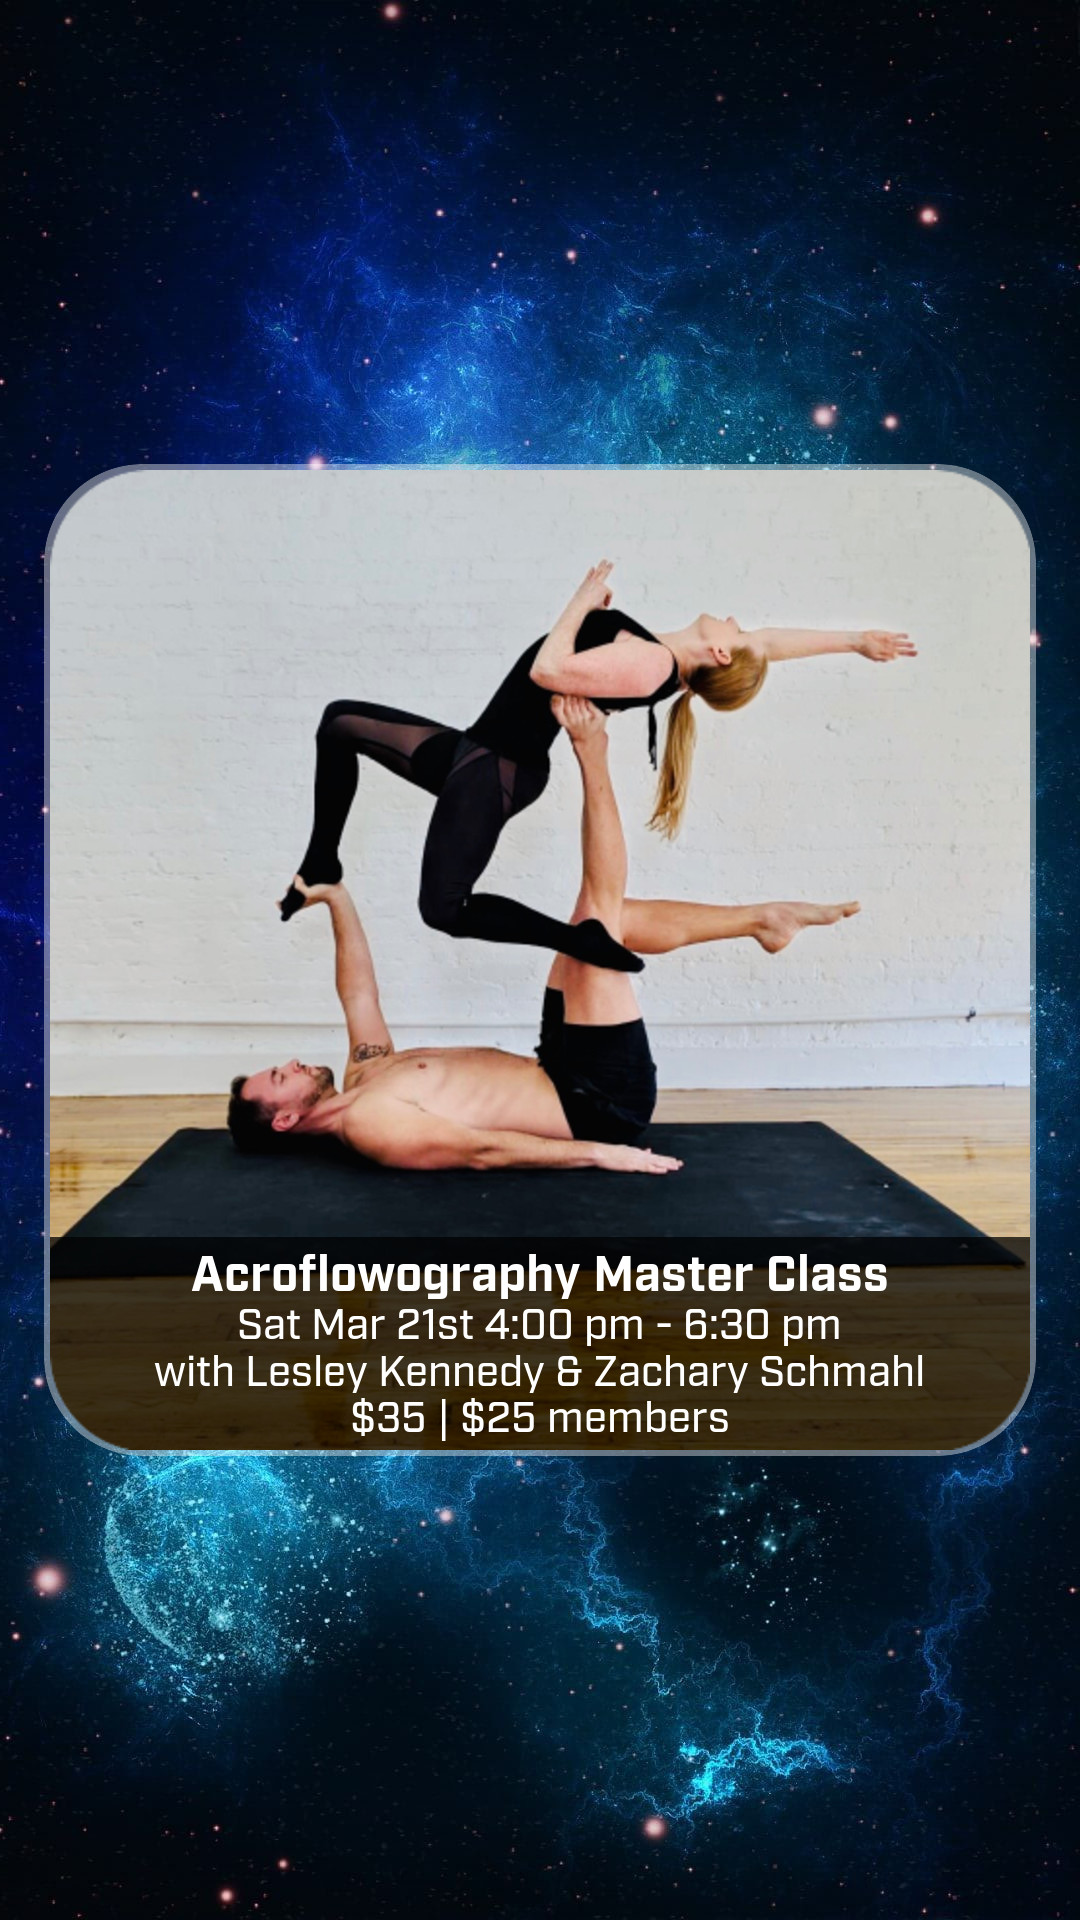
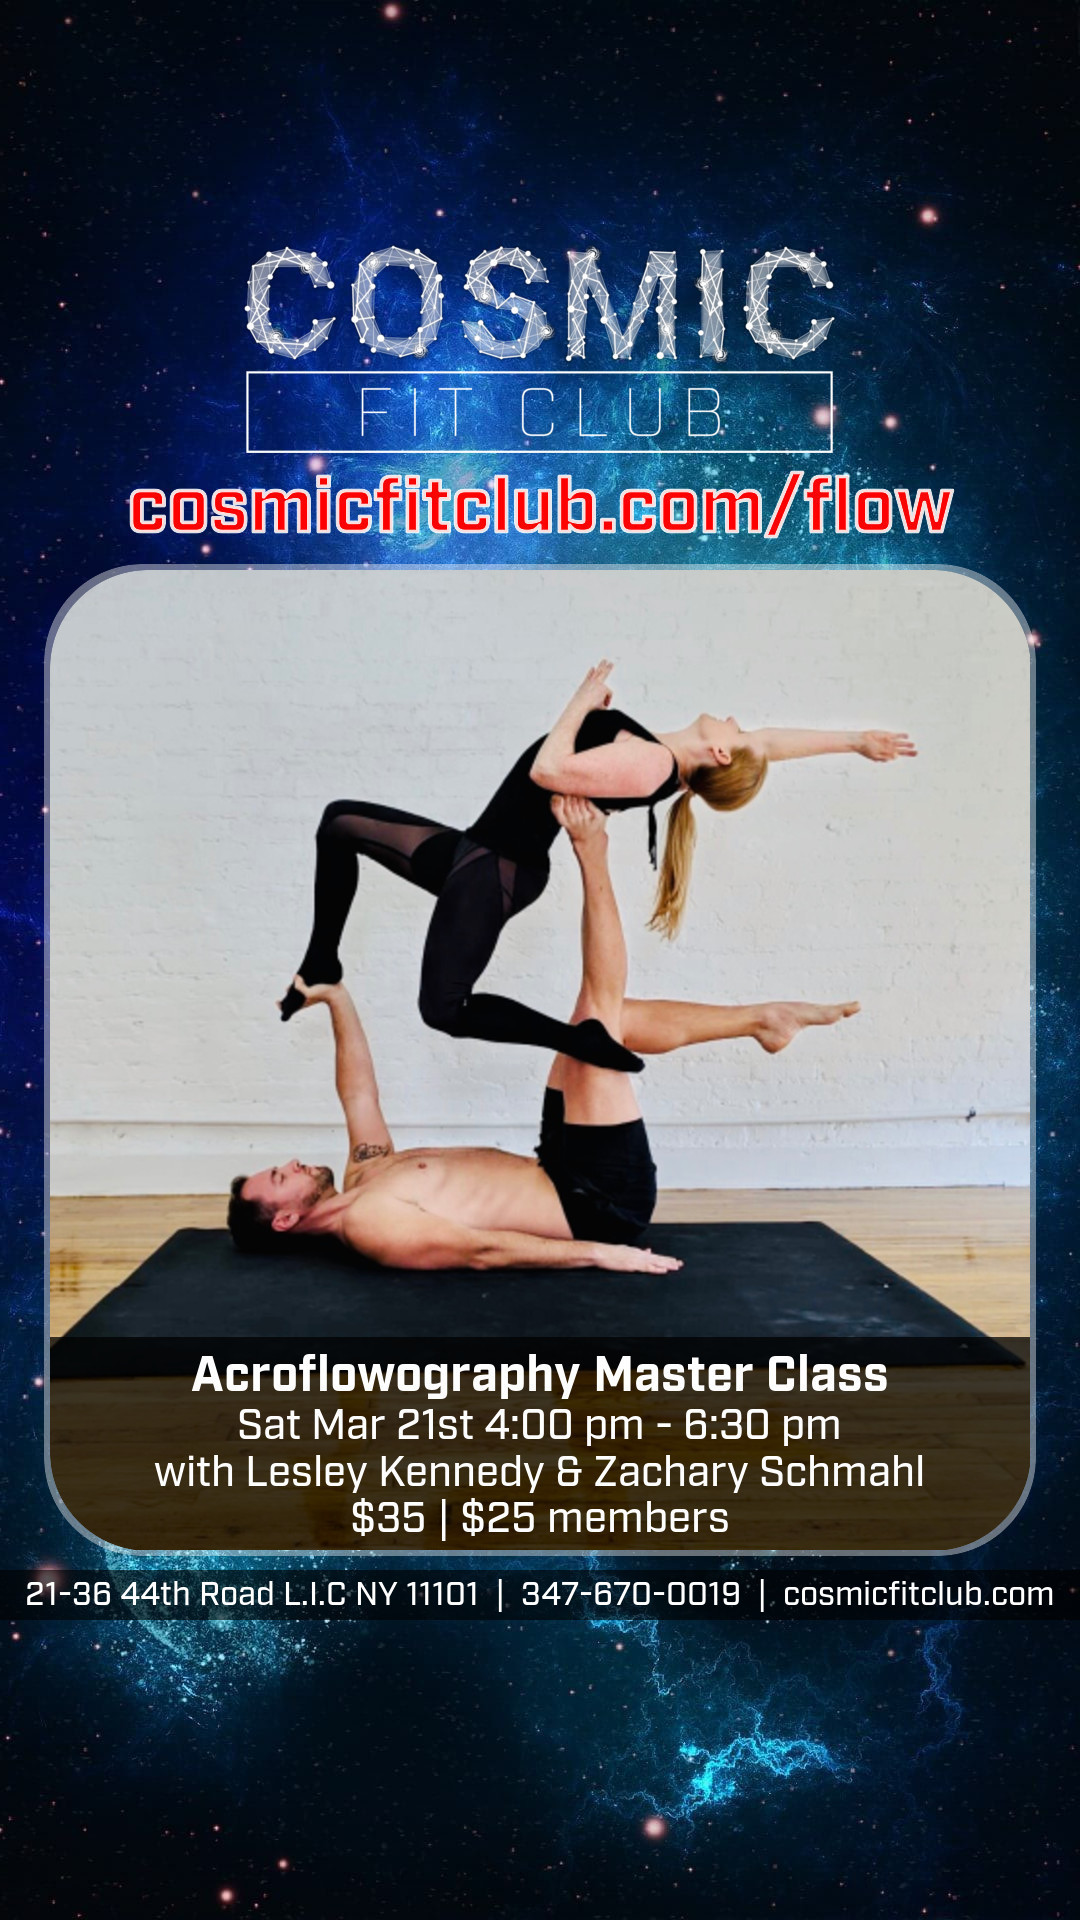
orphan tickets

diff --git a/printable/lib/MiniMagickExtensions::Image::Text.rb b/printable/lib/MiniMagickExtensions::Image::Text.rb
@@ -59,16 +59,17 @@ module MiniMagickExtensions
         end
       end
 
-      def draw_footer(pointsize=nil, offset=0)
-        pointsize ||= self.dimensions[0] * 0.0073
-        line_height = pointsize * 300 / 72
+      def draw_footer(opts)
+        opts[:offset] ||= 0
+        opts[:ptsize] ||= self.dimensions[0] * 0.0073
+        line_height = opts[:ptsize] * 300 / 72
         self.draw_box({
           :x_offset => 0,
-          :y_offset => height-(1.5*line_height)-offset,
-          :width    => width, 
-          :height   => height
+          :y_offset => self.height-(1.5*line_height)-opts[:offset],
+          :width    => self.width, 
+          :height   => opts[:nobottom] ? 1.5*line_height : self.height
         })
-        self.draw_text("21-36 44th Road L.I.C NY 11101  |  347-670-0019  |  cosmicfitclub.com", pointsize, 0, line_height*0.25+offset, "south")
+        self.draw_text("21-36 44th Road L.I.C NY 11101  |  347-670-0019  |  cosmicfitclub.com", opts[:ptsize], 0, line_height*0.25+opts[:offset], "south")
       end
 
       def footer_lines(opts)

diff --git a/printable/EventPoster.rb b/printable/EventPoster.rb
@@ -80,16 +80,31 @@ module EventPoster
   def EventPoster::generate1080x1920(event_id)
     @@image = MiniMagick::Image.open("printable/assets/1080x1920_bg.jpg")
     @@image.draw_elements([
+      { :type     => 'logo',
+        :x_offset => 240,
+        :y_offset => 240,
+        :width    => 600
+      },
+      { :type     => 'highlight_text',
+        :text     => "cosmicfitclub.com/#{Event[event_id].short_path}",
+        :x_offset => 0,
+        :y_offset => 470,
+        :gravity  => 'north',
+        :ptsize   => 18
+      },
       { :type     => 'event_bubble',
         :event_id => event_id,
         :x_offset => 50,
-        :y_offset => 470,
+        :y_offset => 570,
         :width    => 980,
         :ptscale  => 0.05,
         :ptscale2 => 0.043
-
+      },
+      { :type     => 'footer',
+        :offset   => 300,
+        :nobottom => true
       }
-    ])
+    ]).save("events/event_#{event_id}/event_#{event_id}_1080x1920.jpg");
   end
 
   def EventPoster::generate1920x1080(event_id)

diff --git a/models/Events/Event.rb b/models/Events/Event.rb
@@ -221,8 +221,18 @@ class Event < Sequel::Model
     end
   end
 
+  def orphan_tickets
+    tics = self.tickets.select { |x| x.passes.length == 0 }
+    return nil if tics.length == 0
+    { :id          => 0,
+      :event_id    => self.id,
+      :title       => "Orphan Tickets",
+      :passes      => tics.map { |x| { :ticket => tic.to_token, :customer => tic.customer.to_token } }
+    } 
+  end
+
   def attendance2
-    self.sessions.map(&:attendance_hash)
+    self.sessions.map(&:attendance_hash) << orphan_tickets 
   end
 
   def accounting_arr

diff --git a/printable/lib/MiniMagickExtensions::Image::Builder.rb b/printable/lib/MiniMagickExtensions::Image::Builder.rb
@@ -49,7 +49,7 @@ module MiniMagickExtensions
           when "event_bubble"
             self.draw_event_bubble(el)
           when "footer"
-            self.draw_footer
+            self.draw_footer(el)
           when "bubble_shadow"
             self.bubble_shadow(el)
           end
